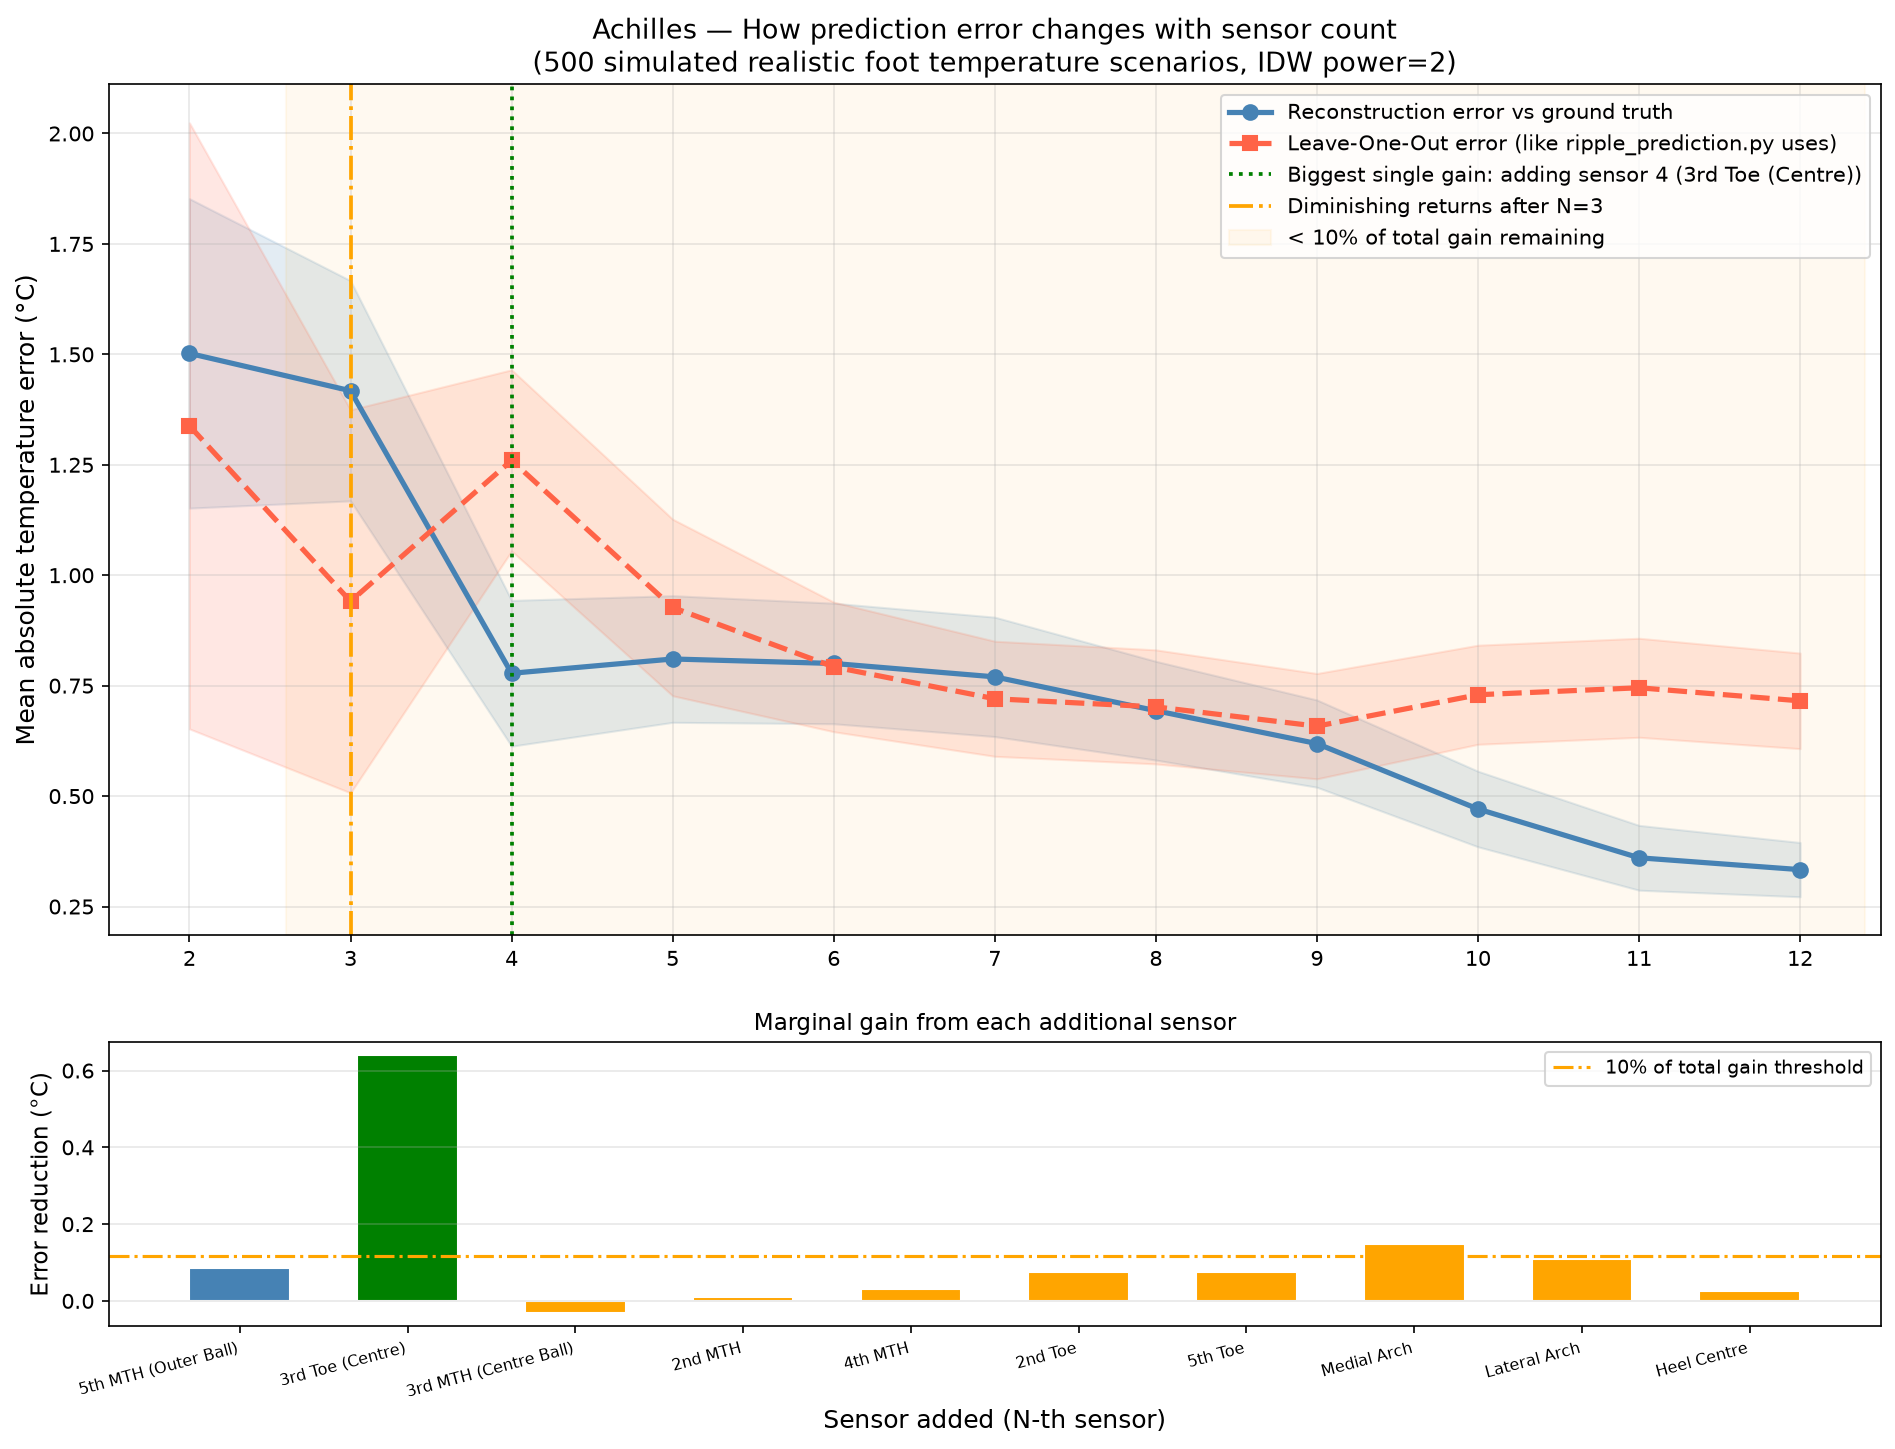
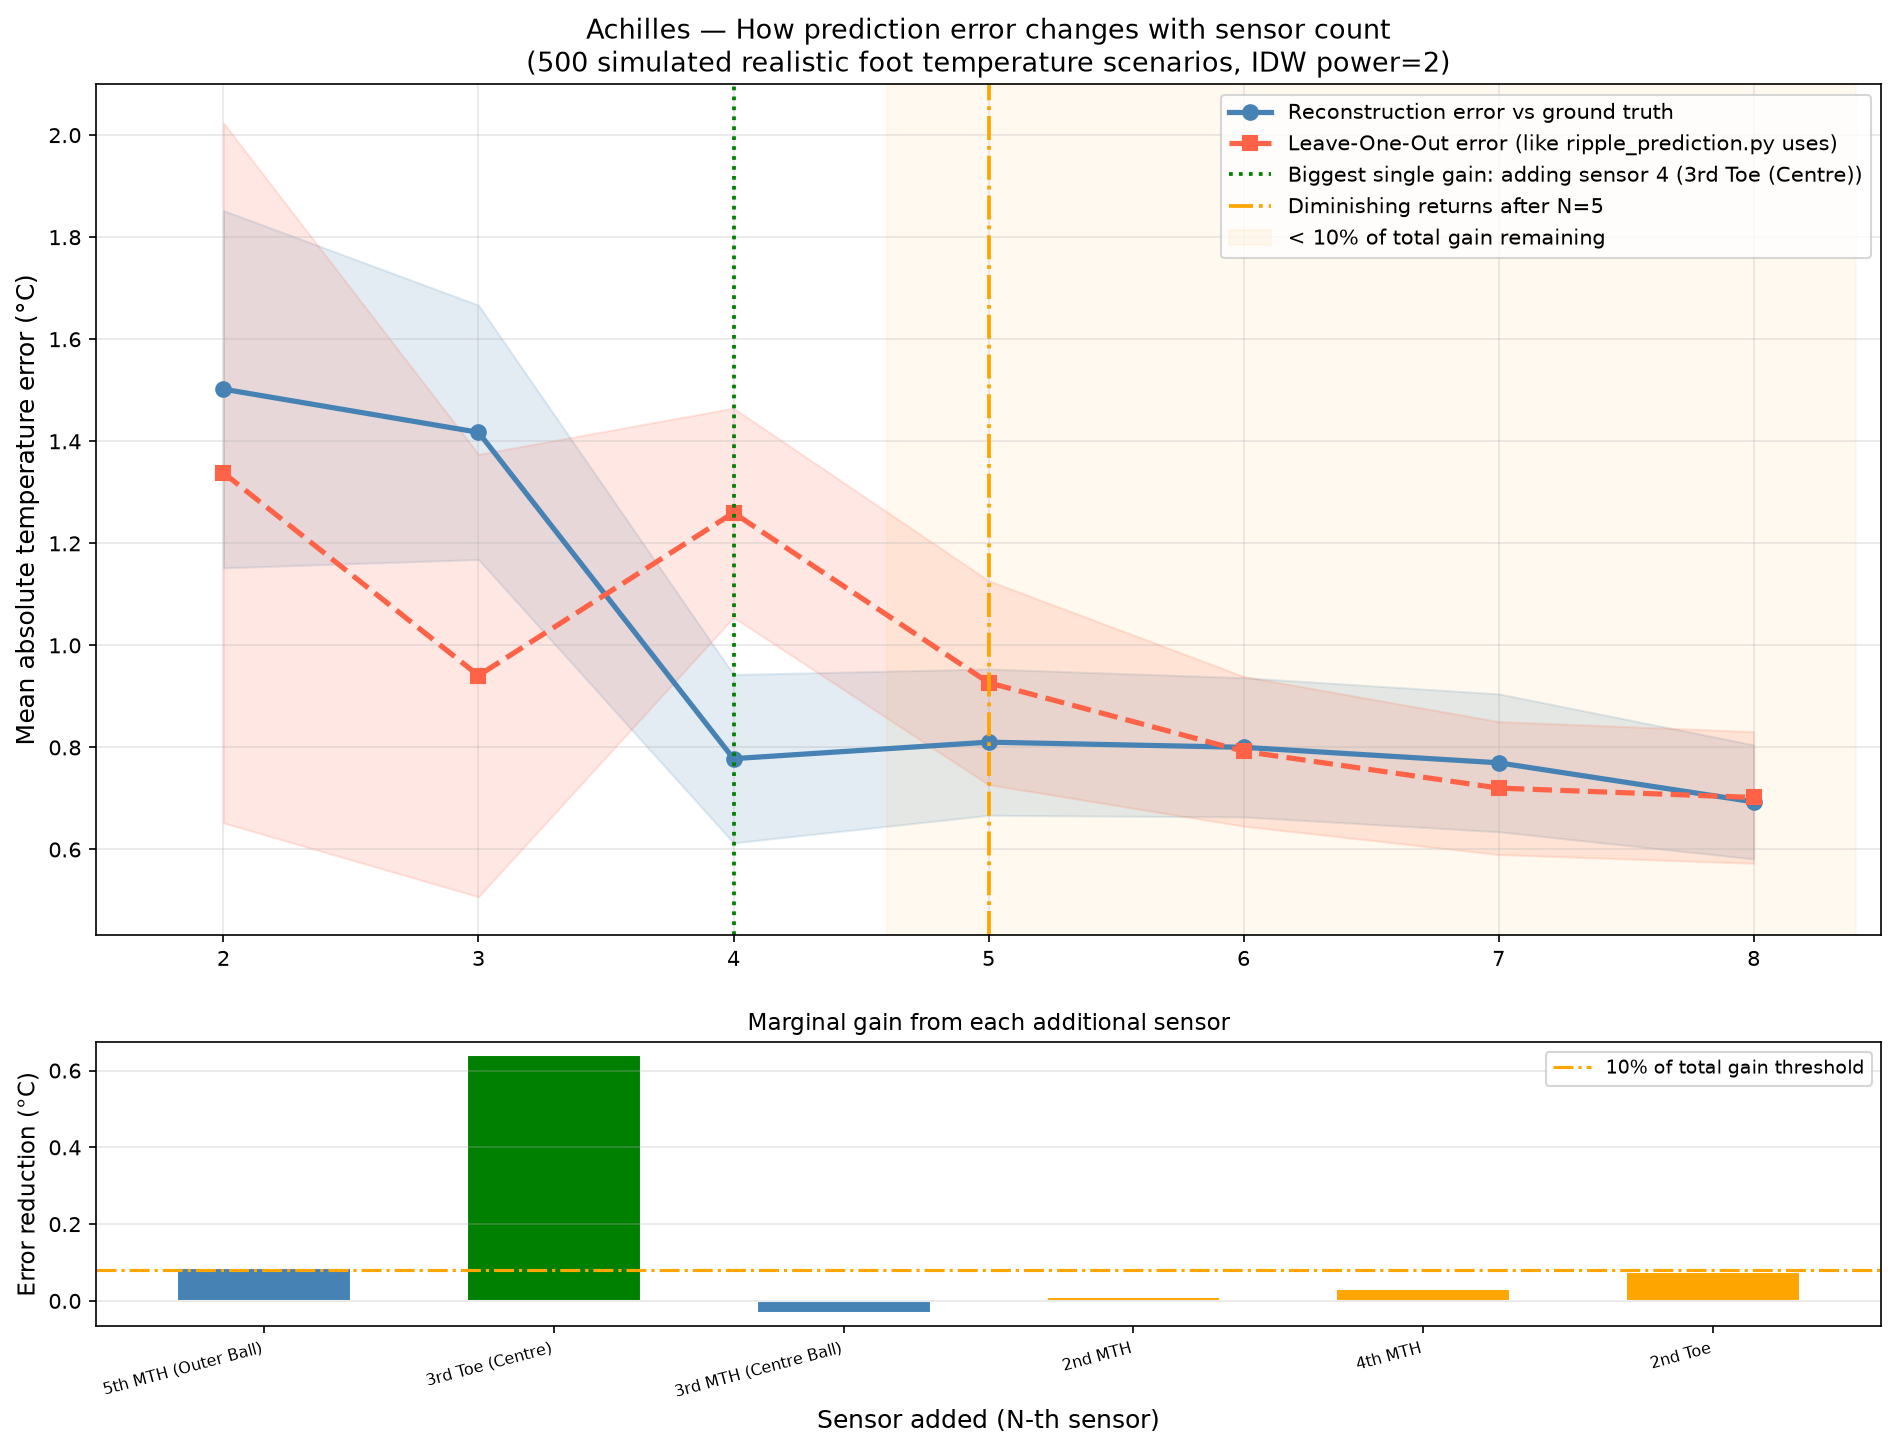
Reduce IDW comparison to 3 vs 4 sensors and limit simulation to 8 sensors

diff --git a/ripple_prediction.py b/ripple_prediction.py
@@ -21,17 +21,11 @@ ALL_SENSORS = [
     {'name': 'S2',  'label': 'Hallux (Big Toe)',      'pos': (5,  93), 'idx': 1},
     {'name': 'S3',  'label': '5th MTH (Outer Ball)',  'pos': (72, 8),  'idx': 2},
     {'name': 'S4',  'label': '3rd Toe Center',        'pos': (38, 55), 'idx': 3},
-    {'name': 'S5',  'label': '3rd MTH (Centre Ball)', 'pos': (40, 8),  'idx': 4},
-    {'name': 'S6',  'label': '2nd MTH',               'pos': (24, 8),  'idx': 5},
-    {'name': 'S7',  'label': '4th MTH',               'pos': (56, 8),  'idx': 6},
-    {'name': 'S8',  'label': '2nd Toe',               'pos': (18, 80), 'idx': 7},
-    {'name': 'S9',  'label': '5th Toe',               'pos': (65, 80), 'idx': 8},
-    {'name': 'S10', 'label': 'Medial Arch',           'pos': (10, 40), 'idx': 9},
 ]
 
-FEW, MANY = 4, 10   # the two layouts compared side by side
+FEW, MANY = 3, 4   # the two layouts compared side by side
 SENSOR_CONFIGS = {FEW: ALL_SENSORS[:FEW], MANY: ALL_SENSORS[:MANY]}
-MAP_LABELS = '123456789X'   # one character per sensor on the map (X = 10)
+MAP_LABELS = '1234'   # one character per sensor on the map
 
 def enable_ansi():
     kernel32 = ctypes.windll.kernel32
@@ -179,7 +173,7 @@ def display(temps_all, frame, mask, err_hist_few, err_hist_many):
     rmsm = math.sqrt(sum(x**2 for e in err_hist_many for x in e) / sum(len(e) for e in err_hist_many))
 
     ln(f"  {'PREDICTION ERROR':^82}")
-    ln(f"  {'':28}  {f'{FEW} Sensors':>12}  {f'{MANY} Sensors':>12}  {f'Benefit of {MANY}':>18}")
+    ln(f"  {'':28}  {f'{FEW} Sensors':>12}  {f'{MANY} Sensors':>12}  {'4th Sensor Benefit':>18}")
     ln(f"  {'-'*76}")
     ln(f"  {'Mean Error  (30-frame avg)':28}  {avgf:>11.3f}C  {avgm:>11.3f}C  {avgf-avgm:>+14.3f}C  {pct_better(avgf, avgm)}")
     ln(f"  {'Worst Case Error':28}  {maxf:>11.3f}C  {maxm:>11.3f}C  {maxf-maxm:>+14.3f}C  {pct_better(maxf, maxm)}")
@@ -188,7 +182,7 @@ def display(temps_all, frame, mask, err_hist_few, err_hist_many):
     ln("  Sensor readings:")
     for i in range(0, MANY, 5):
         ln("    " + "   ".join(f"{s['name']:>3}={temps_all[s['idx']]:.2f}C" for s in sm[i:i+5]))
-    ln(f"  Map: 1-9 = S1-S9, X = S10   |   Ctrl+C to stop")
+    ln(f"  Ctrl+C to stop")
 
 # ── Main ──────────────────────────────────────────────────────────────────────
 

diff --git a/sensor_optimiser.py b/sensor_optimiser.py
@@ -25,10 +25,6 @@ ALL_SENSORS = [
     {"name": "2nd MTH",                "pos": (24,  8)},
     {"name": "4th MTH",                "pos": (56,  8)},
     {"name": "2nd Toe",                "pos": (18, 80)},
-    {"name": "5th Toe",                "pos": (65, 80)},
-    {"name": "Medial\nArch",           "pos": (10, 40)},
-    {"name": "Lateral\nArch",          "pos": (65, 40)},
-    {"name": "Heel\nCentre",           "pos": (40, -25)},
 ]
 
 IDW_POWER    = 2

diff --git a/README.md b/README.md
@@ -34,13 +34,15 @@ The firmware sends one line every ~0.5 s over USB serial at **115200 baud**: 16 
 |---|---|
 | `launch_monitor.py` | Live terminal monitor of all 16 channels: temperature, a bar-graph level and the change since the previous reading. When run from an IDE it opens its own PowerShell window. |
 | `linear_prediction.py` | 1D linear interpolation along a strip of sensors (positions set in `SENSOR_POSITIONS`, currently 38, 48 and 70 mm from the big-toe reference). Shows 9 evenly spaced estimates per segment. |
-| `ripple_prediction.py` | 2D Inverse Distance Weighting (IDW) map of the forefoot. Shows a 4-sensor layout and a 10-sensor layout side by side, with live Leave-One-Out error for each. |
+| `ripple_prediction.py` | 2D Inverse Distance Weighting (IDW) map of the forefoot. Shows a 3-sensor layout and a 4-sensor layout side by side, with live Leave-One-Out error (mean, worst case and RMS over 30 frames) for each, to measure how much the 4th sensor reduces the residual error. |
 | `Temperature_Prediction.py` | 2D Radial Basis Function (thin-plate spline) map of the right forefoot from 4 sensors (T1–T4), with an auto-scaled display and live Leave-One-Out error. |
-| `sensor_optimiser.py` | Offline Monte Carlo simulation of how IDW map error changes as sensors are added, from 2 to 12. Saves `sensor_optimization_graph.png`. |
+| `sensor_optimiser.py` | Offline Monte Carlo simulation of how IDW map error changes as sensors are added, from 2 to 8. Saves `sensor_optimization_graph.png`. |
 
 The live maps are drawn as ASCII text in the terminal and redrawn each frame. Coordinates are in millimetres on the forefoot: X = 0 is the big-toe (inner) edge and X = 89 the outer edge. Y = 0 is the ball of the foot and Y = 100 the toe tips.
 
 ## How it works
+
+The prototype initially used 16 thermistors across both feet. To reduce hardware, we cut the design to eight thermistors—four per foot—while preserving the ability to reconstruct useful spatial temperature patterns. We then evaluated the four-sensor layout more closely: adding the fourth sensor reduced simulated reconstruction error by 45%, while a simulated 3-vs-4 Leave-One-Out comparison showed that the fourth sensor covered a region the other three sensors predicted poorly. The current RBF tool in this repository maps one foot using T1–T4.
 
 The project went through four approaches, each addressing a limitation of the one before.
 
@@ -63,7 +65,7 @@ The project went through four approaches, each addressing a limitation of the on
 
 ## Sensor layout
 
-Sensors are listed in the priority order used by the simulation. `Temperature_Prediction.py` uses S1–S4 and `ripple_prediction.py` uses S1–S4 and S1–S10.
+`Temperature_Prediction.py` uses S1–S4. `ripple_prediction.py` compares S1–S3 against S1–S4.
 
 | Sensor | Channel | Location | Position (X, Y) mm |
 |---|---|---|---|
@@ -71,12 +73,8 @@ Sensors are listed in the priority order used by the simulation. `Temperature_Pr
 | S2 | T2 | Hallux (big toe) | (5, 93) |
 | S3 | T3 | 5th metatarsal head (outer ball) | (72, 8) |
 | S4 | T4 | 3rd toe centre | (38, 55) |
-| S5 | T5 | 3rd metatarsal head | (40, 8) |
-| S6 | T6 | 2nd metatarsal head | (24, 8) |
-| S7 | T7 | 4th metatarsal head | (56, 8) |
-| S8 | T8 | 2nd toe | (18, 80) |
-| S9 | T9 | 5th toe | (65, 80) |
-| S10 | T10 | Medial arch | (10, 40) |
+
+The simulation adds four more candidate positions after S4, in this order: the 3rd, 2nd and 4th metatarsal heads, then the 2nd toe. Their coordinates are listed in `sensor_optimiser.py`.
 
 ## Simulation results
 
@@ -93,16 +91,12 @@ These are the output of `sensor_optimiser.py` (500 simulated fields per sensor c
 | 6 | 2nd MTH | 0.800 °C | 0.792 °C |
 | 7 | 4th MTH | 0.770 °C | 0.720 °C |
 | 8 | 2nd toe | 0.693 °C | 0.702 °C |
-| 9 | 5th toe | 0.619 °C | 0.658 °C |
-| 10 | Medial arch | 0.471 °C | 0.729 °C |
-| 11 | Lateral arch | 0.360 °C | 0.745 °C |
-| 12 | Heel centre | 0.334 °C | 0.716 °C |
 
 Observations:
 
 - **The 4th sensor (3rd toe centre) gives the largest single improvement.** It cuts reconstruction error by 45%, because it fills the biggest uncovered area in the middle of the forefoot.
 - **A 5th sensor next to the existing ones at the ball slightly increases the error**, because it adds no new coverage.
-- **Lower LOO error does not always mean a more accurate map.** With more sensors, LOO compares close neighbours and picks up real local differences, so it moves differently from the true error.
+- **Lower LOO error does not always mean a more accurate map.** Going from 3 to 4 sensors, LOO error rises from 0.941 °C to 1.260 °C even though the true reconstruction error falls. The 4th sensor sits in the centre of the forefoot, where the other three predict it poorly, and that same gap is why it improves the map.
 
 These results come from a simulated temperature model, not from measurements on real feet.
 
@@ -119,7 +113,7 @@ With the insole's Arduino connected and running the 16-channel firmware, run one
 ```
 python launch_monitor.py          # raw 16-channel monitor
 python linear_prediction.py       # 1D strip interpolation
-python ripple_prediction.py       # IDW map, 4 vs 10 sensors
+python ripple_prediction.py       # IDW map, 3 vs 4 sensors
 python Temperature_Prediction.py  # RBF map, right foot
 ```
 
